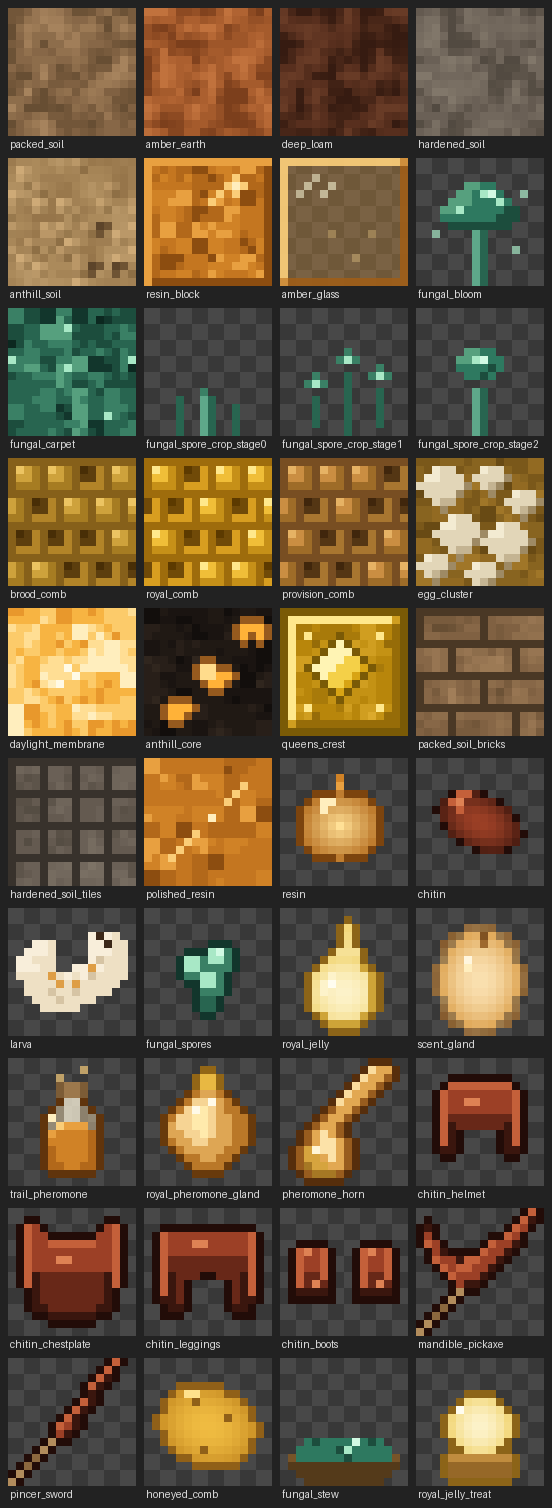
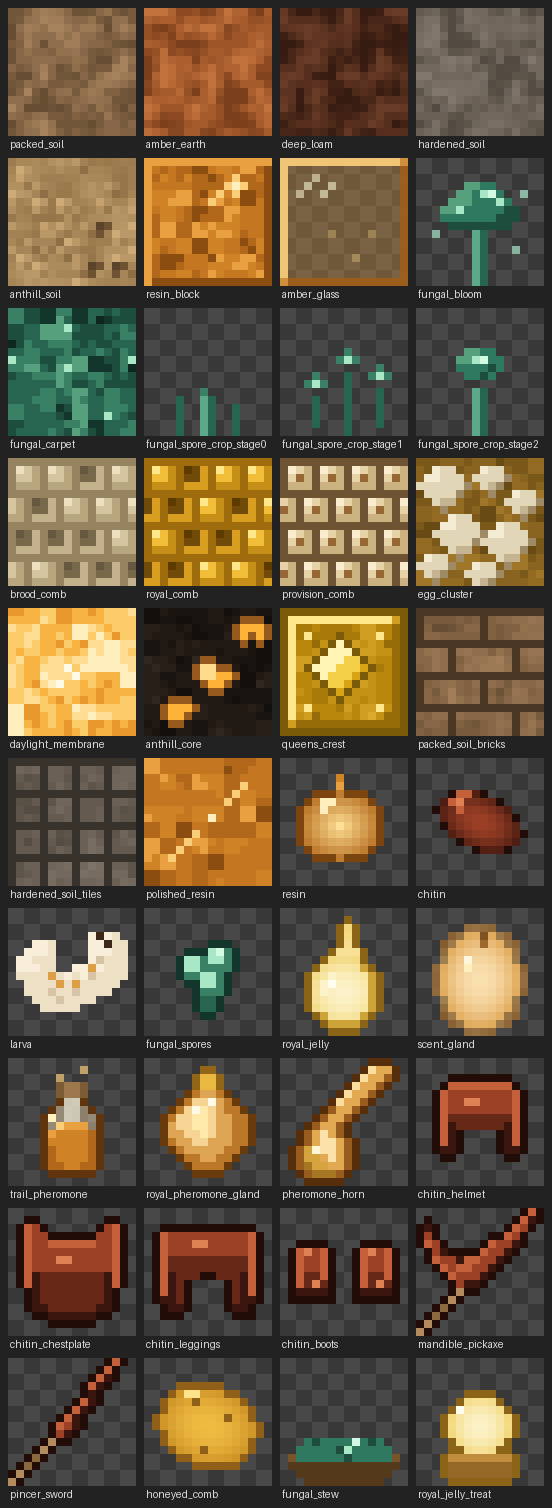
fix(art): make comb family visually distinct (WP-S2 item 1)
Logan's round-3 play-test could not tell royal/brood/provision comb apart
in-game and undercounted provision combs partly for it.

- provision_comb() is no longer a comb() recolor: it paints its own
  silhouette (every cell capped with a dark seal dot, no open hollows),
  reading as a stocked pantry instead of a hue-shifted brood comb, while
  keeping the shared 4x4 offset hex lattice for family resemblance.
- brood_comb() shifts to a pale, desaturated wax/tan palette instead of a
  darker version of royal's gold, widening the hue gap against royal_comb's
  unchanged rich amber.

Changed region(s): [[0.0, 0.2805, 0.2464, 0.4052], [0.4928, 0.3117, 0.7391, 0.4052]]

diff --git a/assets-src/blocks.py b/assets-src/blocks.py
@@ -545,11 +545,19 @@ def fungal_spore_crop_stage2():
 # ---------------------------------------------------------------------------
 
 def brood_comb():
+    """WP-S2 art rework (2026-08-20, round-3 play-test): Logan could not tell
+    the three combs apart in-game. Brood's old palette (line 134,96,26 /
+    cap 206,162,60) sat close to royal_comb's saturated gold at a glance --
+    same hue family, just a shade darker. This palette pushes brood toward
+    pale, desaturated wax/tan (lower saturation, higher value) instead of
+    darkening the same gold, which is what actually widens the visual gap:
+    royal now reads as rich saturated amber, brood reads as washed-out
+    beige-tan next to it, at small scale in a dim room."""
     return comb("brood_comb",
-                line=(134, 96, 26, 255),
-                hollow=(92, 62, 14, 255), hollow_lit=(178, 132, 40, 255),
-                cap=(206, 162, 60, 255), cap_rim=(236, 196, 98, 255),
-                cap_shade=(166, 124, 34, 255))
+                line=(150, 132, 96, 255),
+                hollow=(120, 104, 74, 255), hollow_lit=(196, 178, 140, 255),
+                cap=(214, 198, 160, 255), cap_rim=(236, 224, 192, 255),
+                cap_shade=(184, 166, 126, 255))
 
 
 def royal_comb():
@@ -561,17 +569,48 @@ def royal_comb():
 
 
 def provision_comb():
-    """Provision Comb (Ep2 D1): a straight recolor of brood_comb's own
-    palette (same `comb()` call shape, same cell size) -- deliberately a
-    placeholder, not hand-pixeled, per the task brief. Shifted toward a
-    duller burnt-orange/brown so it reads as "stored food" rather than
-    "brood" next to brood_comb's yellow and royal_comb's bright gold; an
-    art package refines this later."""
-    return comb("provision_comb",
-                line=(120, 78, 34, 255),
-                hollow=(84, 54, 20, 255), hollow_lit=(168, 118, 48, 255),
-                cap=(202, 142, 66, 255), cap_rim=(230, 178, 100, 255),
-                cap_shade=(158, 108, 40, 255))
+    """Provision Comb (WP-S2 art rework, 2026-08-20): superseded the Ep2 D1
+    placeholder, which was a straight recolor of brood_comb's own `comb()`
+    call -- same cell shape, same open/capped mix, different hue only. Logan
+    could not tell the three combs apart in-game and undercounted provision
+    combs partly for it: a hue-only difference does not survive small scale
+    in a dim room.
+
+    This is no longer a `comb()` call at all -- it paints its OWN silhouette,
+    not a recolored variant. `comb()`'s look (both brood and royal) is a
+    checkerboard of dark OPEN hollows next to light capped domes; that mix
+    of dark and light is the texture the eye locks onto. Provision comb has
+    no open cells at all -- every cell is capped, each stamped with a small
+    dark seal dot at its centre (the wax plug), which brood/royal's capped
+    cells never carry. The result reads as a near-uniform pale field of
+    stoppered jars -- a stocked pantry -- which is a different silhouette at
+    a glance, not just a different color, while the shared 4x4 offset hex
+    lattice (the grid line, the lit corner) keeps the family resemblance."""
+    img = blank()
+    px = img.load()
+    cell_w = cell_h = 4
+    line = (110, 84, 50, 255)
+    lid = (232, 210, 168, 255)
+    lid_hi = (250, 236, 206, 255)
+    lid_rim = (204, 178, 128, 255)
+    seal = (150, 104, 54, 255)
+    for y in range(SIZE):
+        row = y // cell_h
+        xo = (cell_w // 2) if row % 2 else 0
+        for x in range(SIZE):
+            cx = (x + xo) % cell_w
+            cy = y % cell_h
+            if cx == 0 or cy == 0:
+                px[x, y] = line
+            elif cx == 1 and cy == 1:
+                px[x, y] = lid_hi
+            elif cx == cell_w - 1 or cy == cell_h - 1:
+                px[x, y] = lid_rim
+            elif cx == 2 and cy == 2:
+                px[x, y] = seal
+            else:
+                px[x, y] = lid
+    return img
 
 
 def egg_cluster():
